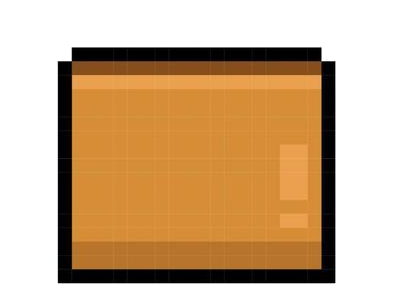
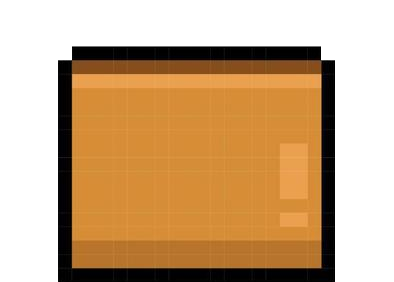
Menús arriba del objetivo + borde de acento, apps de sesión actual, iniciar sesión, punto blanco, caja sin línea
- Menús: aparecen ARRIBA del objetivo (Placement=Top) sin taparlo; fondo
  transparente con desenfoque muy tenue, borde de 2px del color de énfasis de
  Windows, y tarjetas/botones redondeados por función.
- Apps de la SESIÓN ACTUAL ahora se enumeran EN PROCESO (fiable), con CPU%/RAM%;
  las otras sesiones siguen vía el servicio.
- Gato dormido (sesión cerrada): se mantiene dormido al interactuar/abrir menú;
  y su menú ofrece "Iniciar sesión" (verde) que muestra la pantalla de inicio de
  sesión de Windows (WTSDisconnectSession) para iniciar esa cuenta.
- Botón de aspecto del gato: ahora es un punto blanco (sin icono de engranaje).
- Caja: re-extraída quitando la línea gris/blanca de la rejilla del lado derecho.

Claude-Session: https://claude.ai/code/session_012JCTf6LhpAmhpn9dCk523M

diff --git a/src/Swip.App/MainWindow.xaml b/src/Swip.App/MainWindow.xaml
@@ -23,16 +23,16 @@
         </Canvas>
 
         <!-- Menú de cada gato (clic derecho), en 3 niveles. El encabezado se puede arrastrar. -->
-        <Popup x:Name="InfoPopup" Placement="Center" StaysOpen="False"
+        <Popup x:Name="InfoPopup" Placement="Top" StaysOpen="False"
                AllowsTransparency="True" PopupAnimation="Fade" Opened="Popup_Opened">
-            <Border Background="#80000000" CornerRadius="12" Padding="10" MinWidth="260"
-                    BorderBrush="#FF000000" BorderThickness="1.5">
+            <Border Background="Transparent" CornerRadius="12" Padding="10" MinWidth="260"
+                    BorderBrush="{DynamicResource AccentBrush}" BorderThickness="2">
                 <Border.Effect>
                     <DropShadowEffect BlurRadius="16" ShadowDepth="2" Opacity="0.5" />
                 </Border.Effect>
                 <StackPanel>
                     <!-- NIVEL 1: nombre + rueda de configuración (arrastrable) -->
-                    <Border x:Name="CatHeader" Style="{StaticResource ListCard}" Background="#22FFFFFF"
+                    <Border x:Name="CatHeader" Style="{StaticResource ListCard}"
                             Cursor="SizeAll"
                             MouseLeftButtonDown="InfoHeader_Down" MouseMove="InfoHeader_Move"
                             MouseLeftButtonUp="InfoHeader_Up">
@@ -46,8 +46,10 @@
                                            FontWeight="Bold" FontSize="13" FontFamily="Consolas" />
                                 <TextBlock Text="{Binding StateText}" Foreground="#FFB0B0B0" FontSize="11" />
                             </StackPanel>
-                            <Button Grid.Column="1" Style="{StaticResource GearBtn}" Content="&#x2699;"
-                                    VerticalAlignment="Center" Click="Gear_Click" ToolTip="Personalizar gato" />
+                            <Button Grid.Column="1" Style="{StaticResource GearBtn}"
+                                    VerticalAlignment="Center" Click="Gear_Click" ToolTip="Cambiar aspecto del gato">
+                                <Ellipse Width="10" Height="10" Fill="#FFFFFFFF" />
+                            </Button>
                         </Grid>
                     </Border>
 
@@ -110,25 +112,23 @@
                         <TextBlock Text="Sesión activa" Foreground="#FF808080"
                                    FontWeight="SemiBold" HorizontalAlignment="Center" />
                     </Border>
-                    <Border Style="{StaticResource ListRowDisabled}"
-                            Visibility="{Binding ShowNoSession, Converter={StaticResource BoolToVis}}">
-                        <TextBlock Text="Sin sesión iniciada" Foreground="#FF808080"
-                                   HorizontalAlignment="Center" />
-                    </Border>
+                    <Button Content="Iniciar sesión" Style="{StaticResource ListRowAccent}"
+                            Margin="0,8,0,0" Click="StartLogon_Click"
+                            Visibility="{Binding ShowNoSession, Converter={StaticResource BoolToVis}}" />
                 </StackPanel>
             </Border>
         </Popup>
 
         <!-- Menú de configuración (la caja). El encabezado se puede arrastrar. -->
-        <Popup x:Name="ConfigPopup" PlacementTarget="{Binding ElementName=Box}" Placement="Center"
+        <Popup x:Name="ConfigPopup" PlacementTarget="{Binding ElementName=Box}" Placement="Top"
                StaysOpen="False" AllowsTransparency="True" PopupAnimation="Fade" Opened="Popup_Opened">
-            <Border Background="#80000000" CornerRadius="12" Padding="10" MinWidth="200"
-                    BorderBrush="#FF000000" BorderThickness="1.5">
+            <Border Background="Transparent" CornerRadius="12" Padding="10" MinWidth="200"
+                    BorderBrush="{DynamicResource AccentBrush}" BorderThickness="2">
                 <Border.Effect>
                     <DropShadowEffect BlurRadius="16" ShadowDepth="2" Opacity="0.5" />
                 </Border.Effect>
                 <StackPanel>
-                    <Border x:Name="ConfigHeader" Style="{StaticResource ListCard}" Background="#22FFFFFF"
+                    <Border x:Name="ConfigHeader" Style="{StaticResource ListCard}"
                             Cursor="SizeAll"
                             MouseLeftButtonDown="ConfigHeader_Down" MouseMove="ConfigHeader_Move"
                             MouseLeftButtonUp="ConfigHeader_Up">

diff --git a/src/Swip.App/App.xaml b/src/Swip.App/App.xaml
@@ -14,7 +14,7 @@
         <Style x:Key="ListRow" TargetType="Button">
             <Setter Property="Margin" Value="0,0,0,6" />
             <Setter Property="Padding" Value="12,9" />
-            <Setter Property="Background" Value="#00000000" />
+            <Setter Property="Background" Value="#66000000" />
             <Setter Property="Foreground" Value="#FFE8EAED" />
             <Setter Property="BorderThickness" Value="0" />
             <Setter Property="FontSize" Value="12" />
@@ -120,7 +120,7 @@
 
         <!-- Tarjeta de lista no pulsable (encabezado / item de app) -->
         <Style x:Key="ListCard" TargetType="Border">
-            <Setter Property="Background" Value="#FF2A2B2E" />
+            <Setter Property="Background" Value="#66000000" />
             <Setter Property="CornerRadius" Value="9" />
             <Setter Property="Padding" Value="12,8" />
             <Setter Property="Margin" Value="0,0,0,6" />

diff --git a/src/Swip.App/Services/LocalApps.cs b/src/Swip.App/Services/LocalApps.cs
@@ -1,0 +1,121 @@
+using System.Diagnostics;
+using System.Runtime.InteropServices;
+using System.Text;
+using Swip.Shared;
+
+namespace Swip.App.Services;
+
+/// <summary>
+/// Enumera, EN PROCESO, las apps con ventana visible de la SESIÓN ACTUAL (la del propio gato),
+/// con CPU% y RAM%. Es más fiable que pedírselo al servicio para la sesión en pantalla.
+/// </summary>
+public static class LocalApps
+{
+    private delegate bool EnumWindowsProc(IntPtr hWnd, IntPtr lParam);
+
+    [DllImport("user32.dll")] private static extern bool EnumWindows(EnumWindowsProc f, IntPtr p);
+    [DllImport("user32.dll")] private static extern bool IsWindowVisible(IntPtr h);
+    [DllImport("user32.dll", CharSet = CharSet.Unicode)] private static extern int GetWindowTextLength(IntPtr h);
+    [DllImport("user32.dll", CharSet = CharSet.Unicode)] private static extern int GetWindowText(IntPtr h, StringBuilder s, int n);
+    [DllImport("user32.dll", SetLastError = true)] private static extern uint GetWindowThreadProcessId(IntPtr h, out uint pid);
+    [DllImport("user32.dll", SetLastError = true)] private static extern int GetWindowLong(IntPtr h, int i);
+    [DllImport("kernel32.dll", SetLastError = true)] private static extern bool ProcessIdToSessionId(uint pid, out uint sid);
+
+    private const int GWL_EXSTYLE = -20;
+    private const long WS_EX_TOOLWINDOW = 0x00000080;
+
+    [StructLayout(LayoutKind.Sequential)]
+    private struct MEMORYSTATUSEX
+    {
+        public uint dwLength, dwMemoryLoad;
+        public ulong ullTotalPhys, ullAvailPhys, ullTotalPageFile, ullAvailPageFile,
+                     ullTotalVirtual, ullAvailVirtual, ullAvailExtendedVirtual;
+    }
+    [DllImport("kernel32.dll", SetLastError = true)]
+    private static extern bool GlobalMemoryStatusEx(ref MEMORYSTATUSEX b);
+
+    public static List<AppInfo> Enumerate()
+    {
+        uint ownSession = (uint)Process.GetCurrentProcess().SessionId;
+        var byProcess = new Dictionary<string, (string Title, List<int> Pids)>(StringComparer.OrdinalIgnoreCase);
+
+        EnumWindows((hWnd, _) =>
+        {
+            if (!IsWindowVisible(hWnd)) return true;
+            if ((GetWindowLong(hWnd, GWL_EXSTYLE) & WS_EX_TOOLWINDOW) != 0) return true;
+            int len = GetWindowTextLength(hWnd);
+            if (len <= 0) return true;
+            var sb = new StringBuilder(len + 1);
+            GetWindowText(hWnd, sb, sb.Capacity);
+            string title = sb.ToString();
+            if (string.IsNullOrWhiteSpace(title)) return true;
+            GetWindowThreadProcessId(hWnd, out uint pid);
+            if (pid == 0) return true;
+            if (ProcessIdToSessionId(pid, out uint sid) && sid != ownSession) return true;
+
+            string name;
+            try { using var p = Process.GetProcessById((int)pid); name = p.ProcessName; }
+            catch { return true; }
+            if (IsShell(name)) return true;
+
+            if (!byProcess.TryGetValue(name, out var e)) e = (title, new List<int>());
+            if (!e.Pids.Contains((int)pid)) e.Pids.Add((int)pid);
+            byProcess[name] = e;
+            return true;
+        }, IntPtr.Zero);
+
+        var mem = new MEMORYSTATUSEX { dwLength = (uint)Marshal.SizeOf<MEMORYSTATUSEX>() };
+        ulong totalPhys = GlobalMemoryStatusEx(ref mem) ? mem.ullTotalPhys : 0;
+
+        var t0 = new Dictionary<int, TimeSpan>();
+        foreach (var pid in byProcess.Values.SelectMany(v => v.Pids).Distinct())
+        {
+            try { using var p = Process.GetProcessById(pid); t0[pid] = p.TotalProcessorTime; }
+            catch { }
+        }
+        var sw = Stopwatch.StartNew();
+        Thread.Sleep(400);
+        sw.Stop();
+        double wall = sw.Elapsed.TotalMilliseconds;
+        int ncpu = Math.Max(1, Environment.ProcessorCount);
+
+        var result = new List<AppInfo>();
+        foreach (var (name, e) in byProcess)
+        {
+            double cpu = 0, ram = 0;
+            foreach (int pid in e.Pids)
+            {
+                try
+                {
+                    using var p = Process.GetProcessById(pid);
+                    if (t0.TryGetValue(pid, out var start))
+                        cpu += (p.TotalProcessorTime - start).TotalMilliseconds / (wall * ncpu) * 100.0;
+                    ram += p.WorkingSet64;
+                }
+                catch { }
+            }
+            result.Add(new AppInfo
+            {
+                ProcessName = name,
+                WindowTitle = e.Title,
+                CpuPercent = Math.Clamp(cpu, 0, 100),
+                RamPercent = totalPhys > 0 ? Math.Clamp(ram / totalPhys * 100.0, 0, 100) : 0,
+            });
+        }
+
+        return result
+            .OrderByDescending(a => a.CpuPercent)
+            .ThenBy(a => a.ProcessName, StringComparer.OrdinalIgnoreCase)
+            .ToList();
+    }
+
+    private static bool IsShell(string name) => name.ToLowerInvariant() switch
+    {
+        "explorer" => true,
+        "textinputhost" => true,
+        "shellexperiencehost" => true,
+        "searchhost" => true,
+        "startmenuexperiencehost" => true,
+        _ => false,
+    };
+}

diff --git a/src/Swip.App/MainWindow.xaml.cs b/src/Swip.App/MainWindow.xaml.cs
@@ -538,7 +538,10 @@ public partial class MainWindow : Window
         agent.AppsLoading = true;
         try
         {
-            IReadOnlyList<AppInfo> apps = await _client.GetWindowedAppsAsync(agent.SessionId);
+            // La sesión actual se enumera EN PROCESO (fiable); las otras, vía el servicio.
+            IReadOnlyList<AppInfo> apps = agent.IsCurrent
+                ? await Task.Run(() => (IReadOnlyList<AppInfo>)LocalApps.Enumerate())
+                : await _client.GetWindowedAppsAsync(agent.SessionId);
             agent.Apps.Clear();
             if (apps.Count == 0)
             {
@@ -567,6 +570,24 @@ public partial class MainWindow : Window
     }
 
     // --- Cambio de sesión -------------------------------------------------------
+
+    private async void StartLogon_Click(object sender, RoutedEventArgs e)
+    {
+        var confirm = MessageBox.Show(
+            "Se mostrará la pantalla de inicio de sesión de Windows para que inicies esta cuenta. " +
+            "Tu sesión actual quedará abierta en segundo plano. ¿Continuar?",
+            "Swip", MessageBoxButton.YesNo, MessageBoxImage.Question);
+        if (confirm != MessageBoxResult.Yes) return;
+        try
+        {
+            InfoPopup.IsOpen = false;
+            await _client.StartLogonAsync();
+        }
+        catch (Exception ex)
+        {
+            MessageBox.Show(ex.Message, "Swip", MessageBoxButton.OK, MessageBoxImage.Warning);
+        }
+    }
 
     private async void Switch_Click(object sender, RoutedEventArgs e)
     {

diff --git a/src/Swip.Service/SessionManager.cs b/src/Swip.Service/SessionManager.cs
@@ -199,6 +199,20 @@ internal sealed class SessionManager
     }
 
     /// <summary>
+    /// Muestra la pantalla de inicio de sesión de Windows (desconecta la sesión de consola),
+    /// para que el usuario pueda iniciar una cuenta que no tiene sesión abierta.
+    /// </summary>
+    public void StartLogon()
+    {
+        int console = WtsInterop.WTSGetActiveConsoleSessionId();
+        if (!WtsInterop.WTSDisconnectSession(WtsInterop.WTS_CURRENT_SERVER_HANDLE, console, true))
+        {
+            throw new InvalidOperationException(
+                $"WTSDisconnectSession falló (error {Marshal.GetLastWin32Error()}).");
+        }
+    }
+
+    /// <summary>
     /// Cambia a la sesión indicada conectándola a la consola física. Como el servicio corre como
     /// SYSTEM, Windows realiza el cambio sin pedir la contraseña.
     /// </summary>

diff --git a/src/Swip.Service/PipeServer.cs b/src/Swip.Service/PipeServer.cs
@@ -109,12 +109,20 @@ internal sealed class PipeServer
 
         RequestKind.SwitchToSession => SwitchResponse(request.TargetSessionId),
 
+        RequestKind.StartLogon => StartLogonResponse(),
+
         _ => new IpcResponse { Ok = false, Error = "Petición no reconocida." },
     };
 
     private IpcResponse SwitchResponse(int targetSessionId)
     {
         _sessions.SwitchToSession(targetSessionId);
+        return new IpcResponse { Ok = true };
+    }
+
+    private IpcResponse StartLogonResponse()
+    {
+        _sessions.StartLogon();
         return new IpcResponse { Ok = true };
     }
 }

diff --git a/src/Swip.App/Services/ServiceClient.cs b/src/Swip.App/Services/ServiceClient.cs
@@ -30,6 +30,9 @@ public sealed class ServiceClient
         SendAsync(new IpcRequest { Kind = RequestKind.SwitchToSession, TargetSessionId = sessionId }, ct,
             _ => true);
 
+    public Task StartLogonAsync(CancellationToken ct = default) =>
+        SendAsync(new IpcRequest { Kind = RequestKind.StartLogon }, ct, _ => true);
+
     private async Task<T> SendAsync<T>(IpcRequest request, CancellationToken ct, Func<IpcResponse, T> select)
     {
         using var client = new NamedPipeClientStream(

diff --git a/src/Swip.App/Native/AcrylicHelper.cs b/src/Swip.App/Native/AcrylicHelper.cs
@@ -45,7 +45,7 @@ internal static class AcrylicHelper
             {
                 AccentState = (int)AccentState.ACCENT_ENABLE_ACRYLICBLURBEHIND,
                 AccentFlags = 2,
-                GradientColor = 0x80000000, // negro, alpha 0x80 (~50%)
+                GradientColor = 0x2E000000, // negro muy tenue: casi solo desenfoque
                 AnimationId = 0,
             };
 

diff --git a/src/Swip.App/World/CatAgent.cs b/src/Swip.App/World/CatAgent.cs
@@ -84,6 +84,7 @@ public sealed class CatAgent : INotifyPropertyChanged
     /// </summary>
     public CatAction Action =>
         Dragging ? CatAction.Carry
+        : (!HasSession && !IsCurrent) ? CatAction.Sleep   // sesión cerrada: se mantiene dormido
         : (IsPetting || MenuOpen) ? CatAction.Play
         : IsCurrent ? CatAction.Walk
         : HasSession ? CatAction.Play

diff --git a/src/Swip.Shared/IpcProtocol.cs b/src/Swip.Shared/IpcProtocol.cs
@@ -36,6 +36,9 @@ public enum RequestKind
 
     /// <summary>Conecta (cambia) a la sesión indicada. Requiere el servicio como SYSTEM.</summary>
     SwitchToSession,
+
+    /// <summary>Muestra la pantalla de inicio de sesión para iniciar una cuenta sin sesión.</summary>
+    StartLogon,
 }
 
 /// <summary>Petición del gato hacia el servicio.</summary>

diff --git a/src/Swip.Service/Native/WtsInterop.cs b/src/Swip.Service/Native/WtsInterop.cs
@@ -83,6 +83,9 @@ internal static class WtsInterop
         string pPassword,
         bool bWait);
 
+    [DllImport("wtsapi32.dll", SetLastError = true)]
+    public static extern bool WTSDisconnectSession(IntPtr hServer, int sessionId, bool bWait);
+
     [DllImport("wtsapi32.dll")]
     public static extern void WTSFreeMemory(IntPtr pMemory);
 

diff --git a/src/Swip.App/Art/CatSprites.cs b/src/Swip.App/Art/CatSprites.cs
@@ -58,7 +58,7 @@ public static class CatSprites
 public static class BoxSprites
 {
     public const double AspectW = 394.0;
-    public const double AspectH = 284.0;
+    public const double AspectH = 282.0;
 
     private static BitmapImage? _closed;
     private static BitmapImage? _open;
